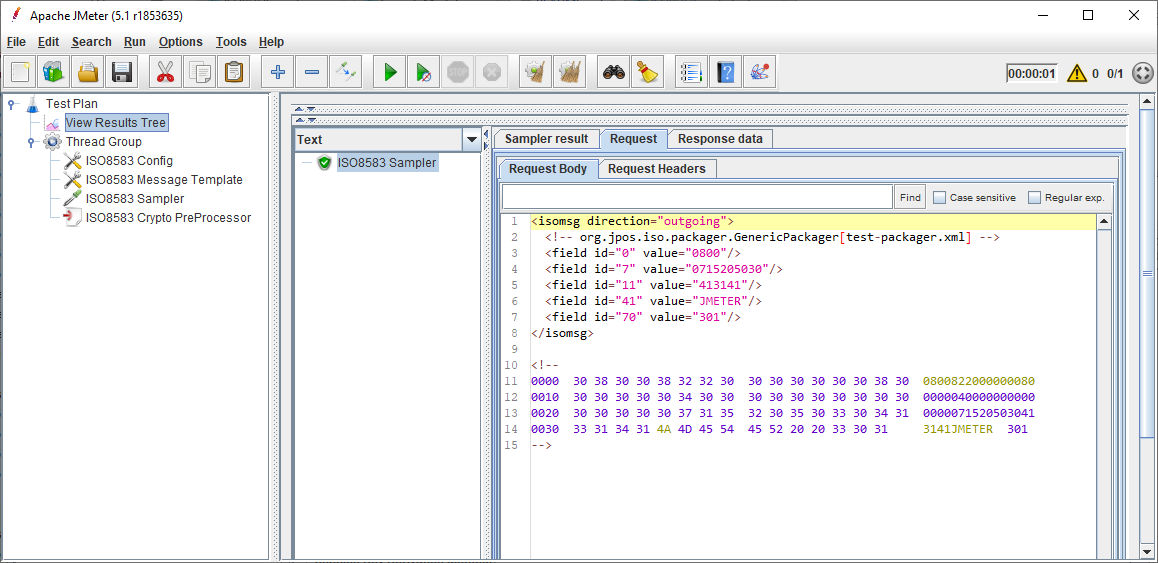
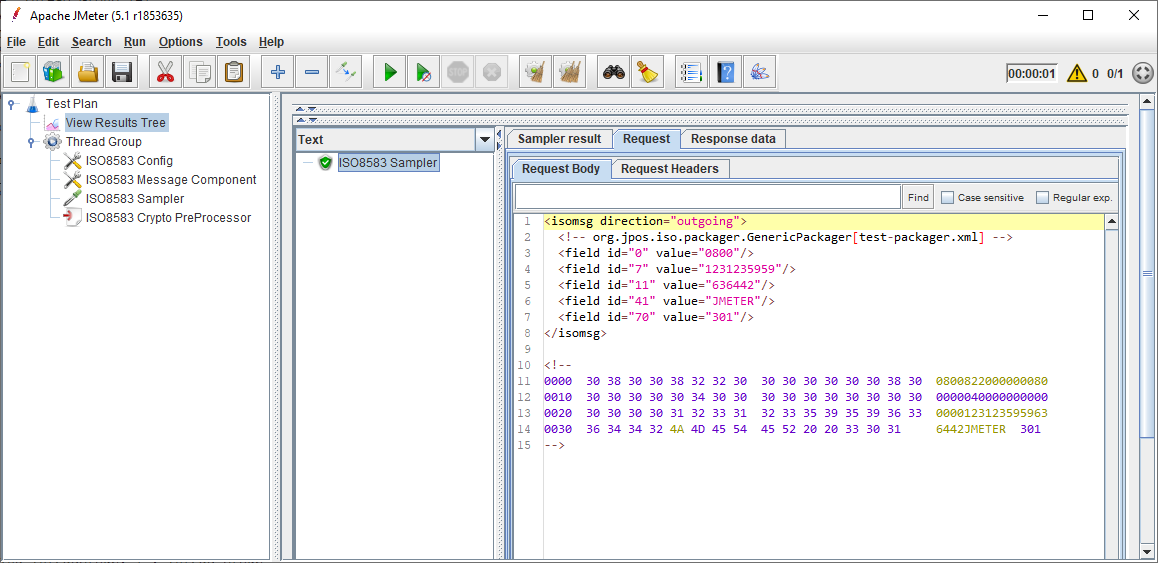
Rename Message Component

diff --git a/src/main/java/nz/co/breakpoint/jmeter/iso8583/ISO8583Sampler.java b/src/main/java/nz/co/breakpoint/jmeter/iso8583/ISO8583Sampler.java
@@ -17,7 +17,7 @@ import org.slf4j.Logger;
 import org.slf4j.LoggerFactory;
 
 /** Sends an ISOMsg to a jPOS QMUX provided by an ISO8583Config element, and receives a response.
- * Message fields can be specified in the associated TestBean GUI, or via ISO8583Template config elements
+ * Message fields can be specified in the associated TestBean GUI, or via ISO8583Component config elements
  * in scope. Preprocessors may also modify fields.
  * Sampler lifecycle:
  * <pre>
@@ -29,8 +29,8 @@ import org.slf4j.LoggerFactory;
                             this.setFields => fields from sampler
                             this.setHeader
                     this.addTestElement
-                        this.template.merge => fields from other template(s)
-                            this.template.addField
+                        this.component.merge => fields from other component(s)
+                            this.component.addField
             JMeterThread.runPreProcessors
                 ISO8583Crypto.process
                     this.getRequest
@@ -65,7 +65,7 @@ public class ISO8583Sampler extends AbstractSampler
 
     // These can't be TestElementProperties as they would be saved in the Test Plan:
     protected ISO8583Config config = new ISO8583Config();
-    protected ISO8583Template template = new ISO8583Template();
+    protected ISO8583Component component = new ISO8583Component();
 
     protected transient MessageBuilder builder = new MessageBuilder(); // reusable between samples
     protected transient ISOMsg response; // for PostProcessors
@@ -88,20 +88,20 @@ public class ISO8583Sampler extends AbstractSampler
             config.addConfigElement((ISO8583Config) el);
             // Make sure all messages have a packager available (to interpret String values correctly):
             builder.packager(config.createPackager());
-        } else if (el instanceof ISO8583Template) {
-            log.debug("Applying template '{}'", el.getName());
-            // Add (new) message fields from any ISO8583Template elements in scope to this sampler's fields:
-            template.merge((ISO8583Template) el);
+        } else if (el instanceof ISO8583Component) {
+            log.debug("Applying component '{}'", el.getName());
+            // Add (new) message fields from any ISO8583Component elements in scope to this sampler's fields:
+            component.merge((ISO8583Component) el);
         } else {
             super.addTestElement(el);
         }
     }
 
     // Without preparing the sampler before Preprocessors run they wouldn't see the
-    // sampler's own template fields.
+    // sampler's own component fields.
     // This gets called first thing in TestCompiler.configureWithConfigElements,
     // so we can sneak in the sampler's own fields to be applied (as a pseudo-config element)
-    // before the surrounding ISO8583Template elements.
+    // before the surrounding ISO8583Component elements.
     @Override
     public void clearTestElementChildren() {
         TestBeanHelper.prepare(this); // calls all property setters
@@ -114,14 +114,14 @@ public class ISO8583Sampler extends AbstractSampler
     public void setRunningVersion(boolean runningVersion) {
         super.setRunningVersion(runningVersion);
         config.setRunningVersion(runningVersion);
-        template.setRunningVersion(runningVersion);
+        component.setRunningVersion(runningVersion);
     }
 
     @Override
     public void recoverRunningVersion() {
         super.recoverRunningVersion();
         config.recoverRunningVersion();
-        template.recoverRunningVersion();
+        component.recoverRunningVersion();
         prepared = false; // make sure fields get re-applied next time the sampler gets prepared
     }
 
@@ -211,7 +211,7 @@ public class ISO8583Sampler extends AbstractSampler
     public ISOMsg getResponse() { return response; }
 
     public void addField(String id, String value) { addField(id, value, ""); }
-    public void addField(String id, String value, String tag) { template.addField(new MessageField(id, value, tag)); }
+    public void addField(String id, String value, String tag) { component.addField(new MessageField(id, value, tag)); }
 
     public String getHeader() { return getPropertyAsString(HEADER); }
     public void setHeader(String header) { if (!prepared) setProperty(HEADER, header); }
@@ -219,8 +219,8 @@ public class ISO8583Sampler extends AbstractSampler
     public String getTrailer() { return getPropertyAsString(TRAILER); }
     public void setTrailer(String trailer) { if (!prepared) setProperty(TRAILER, trailer); }
 
-    public Collection<MessageField> getFields() { return template.getFields(); }
-    public void setFields(Collection<MessageField> fields) { if (!prepared) template.setFields(fields); }
+    public Collection<MessageField> getFields() { return component.getFields(); }
+    public void setFields(Collection<MessageField> fields) { if (!prepared) component.setFields(fields); }
 
     public int getTimeout() { return getPropertyAsInt(TIMEOUT); }
     public void setTimeout(int timeout) { setProperty(new IntegerProperty(TIMEOUT, timeout)); }

diff --git a/src/main/java/nz/co/breakpoint/jmeter/iso8583/ISO8583Component.java b/src/main/java/nz/co/breakpoint/jmeter/iso8583/ISO8583Component.java
@@ -14,20 +14,20 @@ import org.slf4j.LoggerFactory;
  * Only fields that don't exist will be merged into every ISO8585Sampler in scope.
  * Inner fields take precedence over outer ones.
  */
-public class ISO8583Template extends ConfigTestElement
+public class ISO8583Component extends ConfigTestElement
         implements ISO8583TestElement, TestBean, Serializable {
 
     private static final long serialVersionUID = 1L;
 
-    private static final Logger log = LoggerFactory.getLogger(ISO8583Template.class);
+    private static final Logger log = LoggerFactory.getLogger(ISO8583Component.class);
 
     public static final String FIELDS = "fields";
 
-    public ISO8583Template() {
+    public ISO8583Component() {
         setProperty(new CollectionProperty(FIELDS, new ArrayList<>()));
     }
 
-    public void merge(ISO8583Template other) {
+    public void merge(ISO8583Component other) {
         if (other != null) {
             log.debug("Merging {}", other.getFieldsAsProperty());
             other.getFields().forEach(f -> {

diff --git a/src/test/java/nz/co/breakpoint/jmeter/iso8583/ISO8583ComponentTest.java b/src/test/java/nz/co/breakpoint/jmeter/iso8583/ISO8583ComponentTest.java
@@ -4,18 +4,18 @@ import org.junit.Test;
 import static org.junit.Assert.assertEquals;
 import static org.junit.Assert.assertTrue;
 
-public class ISO8583TemplateTest extends ISO8583TestBase {
+public class ISO8583ComponentTest extends ISO8583TestBase {
 
-    ISO8583Template instance = new ISO8583Template();
+    ISO8583Component instance = new ISO8583Component();
 
     @Test
-    public void shouldMergeOtherTemplates() {
+    public void shouldMergeOtherComponents() {
         instance.setFields(asMessageFields(
             new MessageField("7", "inner-only"),
             new MessageField("41", "inner")
         ));
 
-        ISO8583Template other = new ISO8583Template();
+        ISO8583Component other = new ISO8583Component();
         other.setFields(asMessageFields(
             new MessageField("11", "outer-only"),
             new MessageField("41", "outer")

diff --git a/src/test/java/nz/co/breakpoint/jmeter/iso8583/ISO8583SamplerTest.java b/src/test/java/nz/co/breakpoint/jmeter/iso8583/ISO8583SamplerTest.java
@@ -38,17 +38,17 @@ public class ISO8583SamplerTest extends ISO8583TestBase {
     }
 
     @Test
-    public void shouldMergeNestedTemplates() {
+    public void shouldMergeNestedComponents() {
         instance.addTestElement(getDefaultTestConfig());
         instance.addField("0", "0800");
         instance.addField("11", "ALREADY_THERE");
 
-        ISO8583Template inner = new ISO8583Template();
+        ISO8583Component inner = new ISO8583Component();
         inner.setFields(asMessageFields(
             new MessageField("0", "0000"),
             new MessageField("41", "THIS")
         ));
-        ISO8583Template outer = new ISO8583Template();
+        ISO8583Component outer = new ISO8583Component();
         outer.setFields(asMessageFields(
             new MessageField("11", "IGNORED"),
             new MessageField("41", "NOT_THIS")

diff --git a/src/main/java/nz/co/breakpoint/jmeter/iso8583/ISO8583ConfigBeanInfo.java b/src/main/java/nz/co/breakpoint/jmeter/iso8583/ISO8583ConfigBeanInfo.java
@@ -3,6 +3,7 @@ package nz.co.breakpoint.jmeter.iso8583;
 import java.beans.PropertyDescriptor;
 import static nz.co.breakpoint.jmeter.iso8583.ISO8583Config.*;
 import org.apache.jmeter.testbeans.gui.FileEditor;
+import org.apache.jmeter.testbeans.gui.PasswordEditor;
 import org.apache.jmeter.testbeans.gui.TableEditor;
 
 /** Describes the ISO8583Config GUI.
@@ -59,10 +60,12 @@ public class ISO8583ConfigBeanInfo extends ISO8583TestElementBeanInfo {
         p.setValue(DEFAULT, "");
 
         p = property(STOREPASSWORD);
+        p.setPropertyEditorClass(PasswordEditor.class);
         p.setValue(NOT_UNDEFINED, Boolean.TRUE);
         p.setValue(DEFAULT, "");
 
         p = property(KEYPASSWORD);
+        p.setPropertyEditorClass(PasswordEditor.class);
         p.setValue(NOT_UNDEFINED, Boolean.TRUE);
         p.setValue(DEFAULT, "");
     }

diff --git a/src/test/java/nz/co/breakpoint/jmeter/iso8583/ISO8583TestBase.java b/src/test/java/nz/co/breakpoint/jmeter/iso8583/ISO8583TestBase.java
@@ -63,10 +63,10 @@ public class ISO8583TestBase {
         return config;
     }
 
-    public static ISO8583Template getDefaultTestTemplate() {
-        ISO8583Template template = new ISO8583Template();
-        template.addField(new MessageField("11", "STAN"));
-        return template;
+    public static ISO8583Component getDefaultMessageComponent() {
+        ISO8583Component component = new ISO8583Component();
+        component.addField(new MessageField("11", "STAN"));
+        return component;
     }
 
     public static Collection<MessageField> asMessageFields(ISOMsg msg) {

diff --git a/src/test/java/nz/co/breakpoint/jmeter/iso8583/ISO8583SamplerIntegrationTest.java b/src/test/java/nz/co/breakpoint/jmeter/iso8583/ISO8583SamplerIntegrationTest.java
@@ -26,7 +26,7 @@ public class ISO8583SamplerIntegrationTest extends ISO8583TestBase {
     @Test
     public void shouldReceiveResponse() {
         instance.addTestElement(config);
-        instance.addTestElement(getDefaultTestTemplate());
+        instance.addTestElement(getDefaultMessageComponent());
         ISOMsg msg = getDefaultTestMessage();
         instance.setFields(asMessageFields(msg));
         instance.addField("48.1", "1122334455667788", "9f26");

diff --git a/src/main/java/nz/co/breakpoint/jmeter/iso8583/ISO8583ComponentBeanInfo.java b/src/main/java/nz/co/breakpoint/jmeter/iso8583/ISO8583ComponentBeanInfo.java
@@ -1,0 +1,15 @@
+package nz.co.breakpoint.jmeter.iso8583;
+
+import static nz.co.breakpoint.jmeter.iso8583.ISO8583Component.FIELDS;
+
+/** Describes the ISO8583Component GUI.
+ * Uses the same message fields as the ISO8583Sampler GUI.
+ */
+public class ISO8583ComponentBeanInfo extends ISO8583TestElementBeanInfo {
+
+    public ISO8583ComponentBeanInfo() {
+        super(ISO8583Component.class);
+
+        createMessageFieldsTableProperty(FIELDS);
+    }
+}

diff --git a/README.md b/README.md
@@ -11,7 +11,7 @@ based on the excellent [jPOS framework](http://jpos.org/). Includes the followin
 
 - [*ISO8583 Sampler*](#sampler) for defining and sending messages,
 - [*ISO8583 Config*](#config) for integration with the system under test,
-- [*ISO8583 Message Template*](#template) (optional) for sharing common message fields,
+- [*ISO8583 Message Component*](#component) (optional) for sharing common message fields,
 - [*ISO8583 Crypto PreProcessor*](#crypto) (optional) for encryption operations of certain message elements (PIN Block, MAC, ARQC).
 
 #### Prerequisites
@@ -192,9 +192,9 @@ Provided a matching packager configuration like this:
 ```
 
 
-<h3 id="template">ISO8583 Template</h3>
+<h3 id="component">ISO8583 Message Component</h3>
 
-![ISO8583 Template](docs/template.png)
+![ISO8583 Message Component](docs/component.png)
 
 This (optional) Configuration element may be used to define fields in the same way as for the *ISO8583 Sampler*.
 However, its fields will be applied to all samplers in scope, so it can be used for common data elements like dates and times.
@@ -208,10 +208,10 @@ However, its fields will be applied to all samplers in scope, so it can be used 
 |16|<code>${__time(MMdd,)}</code>| |Currency conversion date|
 |17|<code>${__time(MMdd,)}</code>| |Capture date|
 
-If any particular field number is present in the sampler as well as the template, the one in the sampler takes precedence.
+If any particular field number is present in the sampler as well as the component, the one in the sampler takes precedence.
 
-If a sampler has more than one template in its scope, their fields will all be merged into the sampler, 
-unless a field is already present in the sampler *or* a template in a scope closer to the sampler.
+If a sampler has more than one component in its scope, their fields will all be merged into the sampler, 
+unless a field is already present in the sampler *or* a component in a scope closer to the sampler.
 
 In other words, inner fields take precedence over outer ones, 
 with the sampler's fields themselves being the innermost ones.
@@ -290,15 +290,15 @@ Extract the [zip package](https://jmeter-plugins.org/files/packages/tilln-iso858
 
 1. Copy the [jmeter-iso8583 jar file](https://github.com/tilln/jmeter-iso8583/releases/download/1.0-SNAPSHOT/jmeter-iso8583-1.0-SNAPSHOT.jar) into JMeter's `lib/ext` directory.
 2. Copy the following dependencies into JMeter's `lib` directory:
-    * [org.jpos / jpos](https://search.maven.org/classic/remotecontent?filepath=org/jpos/jpos/2.1.3/jpos-2.1.3.jar)
-    * [org.bouncycastle / bcprov-jdk15on](https://search.maven.org/classic/remotecontent?filepath=org/bouncycastle/bcprov-jdk15on/1.62/bcprov-jdk15on-1.62.jar)
-    * [org.bouncycastle / bcpg-jdk15on](https://search.maven.org/classic/remotecontent?filepath=org/bouncycastle/bcpg-jdk15on/1.62/bcpg-jdk15on-1.62.jar)
-    * [org.jdom / jdom2](https://search.maven.org/classic/remotecontent?filepath=org/jdom/jdom2/2.0.6/jdom2-2.0.6.jar)
-    * [org.osgi / org.osgi.core](https://search.maven.org/classic/remotecontent?filepath=org/osgi/org.osgi.core/6.0.0/org.osgi.core-6.0.0.jar)
-    * [commons-cli / commons-cli](https://search.maven.org/classic/remotecontent?filepath=commons-cli/commons-cli/1.4/commons-cli-1.4.jar)
-    * [org.yaml / snakeyaml](https://search.maven.org/classic/remotecontent?filepath=org/yaml/snakeyaml/1.24/snakeyaml-1.24.jar)
-    * [org.hdrhistogram / HdrHistogram](https://search.maven.org/classic/remotecontent?filepath=org/hdrhistogram/HdrHistogram/2.1.11/HdrHistogram-2.1.11.jar)
-    * [org.javatuples / javatuples](https://search.maven.org/classic/remotecontent?filepath=org/javatuples/javatuples/1.2/javatuples-1.2.jar)
+    * [org.jpos / jpos](https://search.maven.org/remotecontent?filepath=org/jpos/jpos/2.1.3/jpos-2.1.3.jar)
+    * [org.bouncycastle / bcprov-jdk15on](https://search.maven.org/remotecontent?filepath=org/bouncycastle/bcprov-jdk15on/1.62/bcprov-jdk15on-1.62.jar)
+    * [org.bouncycastle / bcpg-jdk15on](https://search.maven.org/remotecontent?filepath=org/bouncycastle/bcpg-jdk15on/1.62/bcpg-jdk15on-1.62.jar)
+    * [org.jdom / jdom2](https://search.maven.org/remotecontent?filepath=org/jdom/jdom2/2.0.6/jdom2-2.0.6.jar)
+    * [org.osgi / org.osgi.core](https://search.maven.org/remotecontent?filepath=org/osgi/org.osgi.core/6.0.0/org.osgi.core-6.0.0.jar)
+    * [commons-cli / commons-cli](https://search.maven.org/remotecontent?filepath=commons-cli/commons-cli/1.4/commons-cli-1.4.jar)
+    * [org.yaml / snakeyaml](https://search.maven.org/remotecontent?filepath=org/yaml/snakeyaml/1.24/snakeyaml-1.24.jar)
+    * [org.hdrhistogram / HdrHistogram](https://search.maven.org/remotecontent?filepath=org/hdrhistogram/HdrHistogram/2.1.11/HdrHistogram-2.1.11.jar)
+    * [org.javatuples / javatuples](https://search.maven.org/remotecontent?filepath=org/javatuples/javatuples/1.2/javatuples-1.2.jar)
 3. Restart JMeter.
 
 
